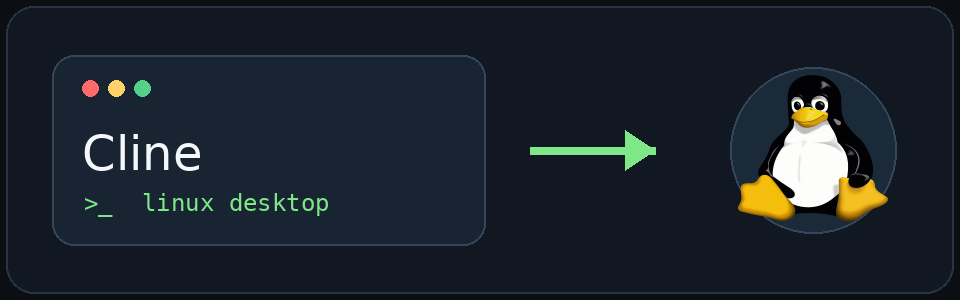
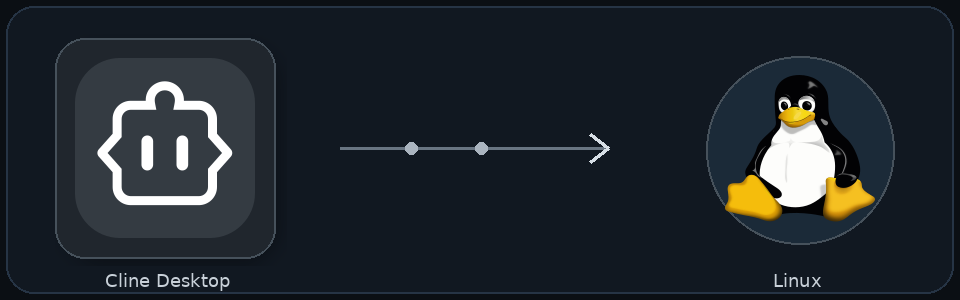
Polish README hero branding

diff --git a/README.md b/README.md
@@ -1,6 +1,6 @@
 <div align="center">
 
-![Linux Cline integration represented by a terminal card and Tux](./assets/cline-linux-hero.png)
+![Cline Desktop logo connected to Tux for Linux](./assets/cline-linux-hero.png)
 
 <h1>cline-desktop-linux</h1>
 
